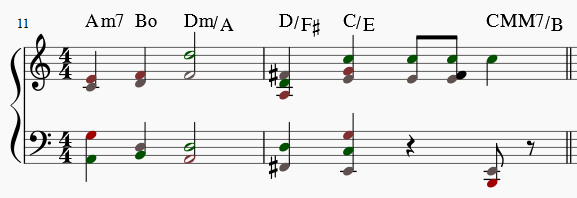
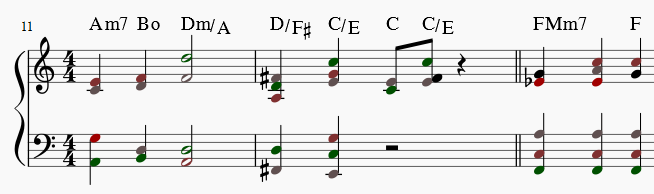
bug fix: inversion was wrong in case of pedal tone (NCT)

Changed region(s): [[0.0, 0.0619, 1.0, 0.9588], [0.8111, 0.0619, 0.9983, 0.1546], [0.0312, 0.0928, 0.0624, 0.1546]]

diff --git a/chordIdentifier.qml b/chordIdentifier.qml
@@ -232,20 +232,28 @@ MuseScore {
             console.log('No chord found');
         }
             
-        var chordRootNote;
+        var regular_chord=[-1,-1,-1,-1]; //without NCTs
+        var bass=null; 
         var seventhchord=0;
         var chordName='';
         if (rootNote !== null) { // ----- the chord was identified
             for(i=0; i<chord.length; i++){  // ---- color notes and find root note
                 if((chord[i].pitch%12) === (rootNote%12)){  //color root note
-                    chordRootNote = chord[i];
+                    regular_chord[0] = chord[i];
                     chord[i].color = colorroot; 
+                    if(bass==null) bass=chord[i];
                 }else if((chord[i].pitch%12) === ((rootNote+chord_type[idx_chtype][0])%12)){ //third note
+                    regular_chord[1] = chord[i];
                     chord[i].color = color3rd; 
+                    if(bass==null) bass=chord[i];
                 }else if(chord_type[idx_chtype].length>=2 && (chord[i].pitch%12) === ((rootNote+chord_type[idx_chtype][1])%12)){ //5th
+                    regular_chord[2] = chord[i];
                     chord[i].color = color5th;
+                    if(bass==null) bass=chord[i];
                 }else if(chord_type[idx_chtype].length>=3 && (chord[i].pitch%12) === ((rootNote+chord_type[idx_chtype][2])%12)){ //7th
+                    regular_chord[3] = chord[i];
                     chord[i].color = color7th; 
+                    if(bass==null) bass=chord[i];
                     seventhchord=1;
                 }else{      //reset other note color 
                     chord[i].color = black; 
@@ -260,7 +268,7 @@ MuseScore {
             }*/
             
             // ----- find chord name:
-            var notename = getNoteName(chordRootNote.tpc);
+            var notename = getNoteName(regular_chord[0].tpc);
             chordName = notename + chord_str[idx_chtype];
             
         }
@@ -268,13 +276,13 @@ MuseScore {
         // ----- find inversion
         inv=-1;
         if (chordName !== ''){ // && inversion !== null) {
-            var bass_pitch=(chord[0].pitch%12);
+            var bass_pitch=bass.pitch%12;
             //console.log('bass_pitch: ' + bass_pitch);
             if(bass_pitch == rootNote){ //Is chord in root position ?
                 inv=0;
             }else{
-                for(var inv=1; inv<intervals[idx_rootpos].length+1; inv++){
-                   if(bass_pitch == ((rootNote+intervals[idx_rootpos][inv-1])%12)) break;
+                for(var inv=1; inv<chord_type[idx_chtype].length+1; inv++){
+                   if(bass_pitch == ((rootNote+chord_type[idx_chtype][inv-1])%12)) break;
                    //console.log('note n: ' + ((chord[idx_rootpos].pitch+intervals[idx_rootpos][inv-1])%12));
                 }
             }
@@ -285,8 +293,8 @@ MuseScore {
                 chordName += inversions_7th[inv];
             }
             
-            if(DISPLAY_BASS_NOTE===1 && inv!==0){
-                chordName+="/"+getNoteName(chord[0].tpc);
+            if(DISPLAY_BASS_NOTE===1 && inv>0){
+                chordName+="/"+getNoteName(bass.tpc);
             }
         }
 
